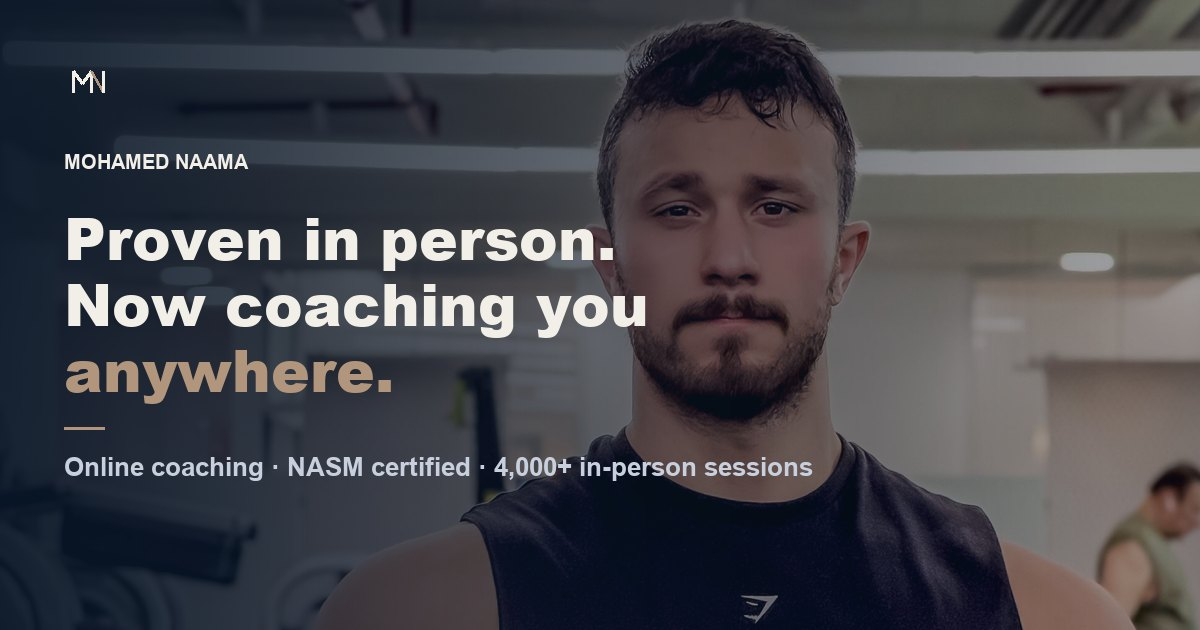
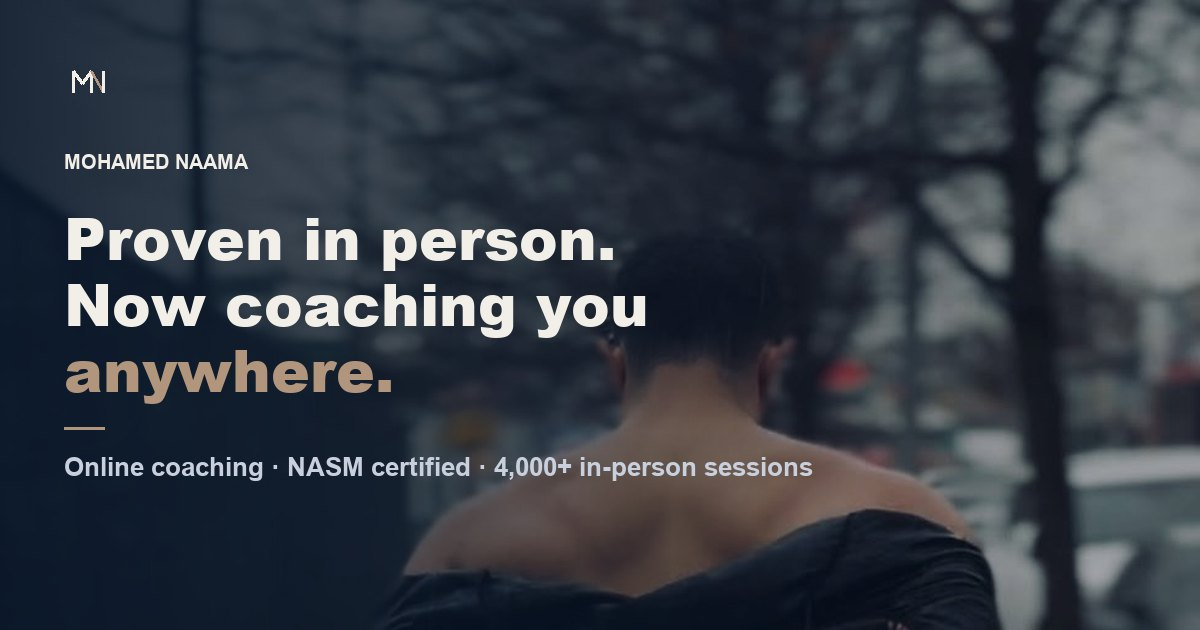
Switch the hero to the rain photograph
Two crops from 17.jpeg: 16:9 at 976x549 from lg up, 4:5 at 976x1220 below,
served through the same <picture> so only one file downloads. Both keep the
original's native 976px width — the source is low resolution and upscaling
the file would add weight without detail.

The screen upscale that remains is recorded in public/images/README.md:
1.17x at 375/DPR2, 1.76x at 375/DPR3, 1.48x at 1440/DPR1, 1.97x at 1920/DPR1.
It holds because the frame is dark and rain-blurred, so softness reads as
atmosphere, but a higher-resolution original would remove the compromise.

The photograph is much darker than the one it replaces, so the navy veil is
lighter: base 25%/15% instead of 45%/30%, and the horizontal gradient now
runs to transparent. Contrast was re-derived by compositing the overlay stack
over the actual pixels rather than eyeballed — behind the headline the worst
single pixel is 4.76:1 at 375px and 7.56:1 at 1440px, medians 11.4:1 and
11.5:1. Lede is 9.0:1 and 8.9:1 at worst.

object-position moved to 50% 34% for the new framing. The social card is
regenerated from the same photograph.

diff --git a/src/content/media.ts b/src/content/media.ts
@@ -6,8 +6,8 @@
  * what the new picture actually shows. See `public/images/README.md`.
  *
  * These are Mohamed's own photographs, supplied by the client. They were
- * cropped to the aspect ratios below, resized, and saved without EXIF (so no
- * camera or GPS metadata ships with them).
+ * cropped to the aspect ratios below, resized down where needed, and saved
+ * without EXIF (so no camera or GPS metadata ships with them).
  */
 
 export type SiteImage = {
@@ -20,41 +20,32 @@ export type SiteImage = {
 
 export const media = {
   /**
-   * Hero background, art-directed.
+   * Hero background, art-directed: the tall crop below `lg`, the wide crop
+   * from `lg` up, both from the same original and served through one
+   * `<picture>` so only one file downloads.
    *
-   * The landscape crop is only usable from `lg` up. Below that the hero is a
-   * tall container, and `object-cover` on a 3:2 frame renders it about 1072px
-   * wide inside a 375px viewport — so the browser was upscaling a 750px file
-   * nearly 3x. The 4:5 crop exists so phones get a frame shaped like the space
-   * it has to fill. Hero renders both through one `<picture>`, so only one
-   * file is ever downloaded.
+   * Both are capped at the original's 976px width — the source is a
+   * low-resolution frame and upscaling the file would only add weight, not
+   * detail. The screen upscale that remains is recorded in the README.
    */
-  heroLandscape: {
-    src: "/images/coach-mohamed-hero.jpg",
-    width: 2400,
-    height: 1600,
-    alt: "Mohamed Naama on the gym floor where he coaches",
+  heroWide: {
+    src: "/images/coach-mohamed-hero-wide.jpg",
+    width: 976,
+    height: 549,
+    alt: "Mohamed Naama training outdoors in the rain, seen from behind",
   },
-  heroPortrait: {
-    src: "/images/coach-mohamed-hero-portrait.jpg",
-    width: 1200,
-    height: 1500,
-    alt: "Mohamed Naama on the gym floor where he coaches",
-  },
-
-  /** Landscape training shot beside the coach's story on the homepage. */
-  coachTraining: {
-    src: "/images/coach-mohamed-training.jpg",
-    width: 1600,
-    height: 1143,
-    alt: "Mohamed Naama mid-set on a seated dumbbell curl",
+  heroTall: {
+    src: "/images/coach-mohamed-hero-tall.jpg",
+    width: 976,
+    height: 1220,
+    alt: "Mohamed Naama training outdoors in the rain, seen from behind",
   },
 
-  /** Used on /about so the two pages do not repeat the same photograph. */
-  coachPortrait: {
-    src: "/images/coach-mohamed-portrait.jpg",
+  /** Beside the coach's story on the homepage. */
+  coachRack: {
+    src: "/images/coach-mohamed-rack.jpg",
     width: 1600,
     height: 1143,
-    alt: "Mohamed Naama resting between sets, looking off camera",
+    alt: "Mohamed Naama in profile beside a loaded rack in the gym",
   },
 } as const satisfies Record<string, SiteImage>;

diff --git a/src/components/sections/hero.tsx b/src/components/sections/hero.tsx
@@ -31,16 +31,16 @@ const DESKTOP_SIZES = "100vw";
  *   coerced back to 75. Asking for it only made the intent misleading.
  */
 const shared = {
-  alt: media.heroLandscape.alt,
+  alt: media.heroWide.alt,
 };
 
 const {
   props: { srcSet: desktopSrcSet },
 } = getImageProps({
   ...shared,
-  src: media.heroLandscape.src,
-  width: media.heroLandscape.width,
-  height: media.heroLandscape.height,
+  src: media.heroWide.src,
+  width: media.heroWide.width,
+  height: media.heroWide.height,
   sizes: DESKTOP_SIZES,
 });
 
@@ -48,9 +48,9 @@ const {
   props: { srcSet: mobileSrcSet, ...imgProps },
 } = getImageProps({
   ...shared,
-  src: media.heroPortrait.src,
-  width: media.heroPortrait.width,
-  height: media.heroPortrait.height,
+  src: media.heroTall.src,
+  width: media.heroTall.width,
+  height: media.heroTall.height,
   sizes: MOBILE_SIZES,
 });
 
@@ -80,11 +80,11 @@ export function Hero() {
         <source srcSet={mobileSrcSet} sizes={MOBILE_SIZES} />
         <img
           {...imgProps}
-          alt={media.heroLandscape.alt}
+          alt={media.heroWide.alt}
           loading="eager"
           fetchPriority="high"
           decoding="async"
-          className="absolute inset-0 -z-10 h-full w-full object-cover object-[50%_30%]"
+          className="absolute inset-0 -z-10 h-full w-full object-cover object-[50%_34%]"
         />
       </picture>
 
@@ -94,11 +94,12 @@ export function Hero() {
         the 4.5:1 AA threshold for body copy.
       */}
       <div aria-hidden className="pointer-events-none absolute inset-0 -z-10">
-        {/* Heavier base veil below lg, where the text crosses the brightest
-            part of the frame instead of sitting beside it. */}
-        <div className="absolute inset-0 bg-navy-900/45 lg:bg-navy-900/30" />
-        <div className="absolute inset-0 bg-linear-to-r from-navy-900/85 via-navy-900/55 to-navy-900/10" />
-        <div className="absolute inset-x-0 bottom-0 h-full bg-linear-to-t from-navy-900 via-navy-900/55 to-transparent lg:h-2/3" />
+        {/* Lighter than the previous photograph needed: this frame is
+            already dark and desaturated, so the old veil flattened it to
+            near-black. Measured after re-tuning rather than guessed. */}
+        <div className="absolute inset-0 bg-navy-900/25 lg:bg-navy-900/15" />
+        <div className="absolute inset-0 bg-linear-to-r from-navy-900/80 via-navy-900/40 to-transparent" />
+        <div className="absolute inset-x-0 bottom-0 h-3/4 bg-linear-to-t from-navy-900 via-navy-900/45 to-transparent lg:h-2/3" />
         <div
           className="absolute inset-0 opacity-[0.04]"
           style={{

diff --git a/src/lib/jsonld.ts b/src/lib/jsonld.ts
@@ -25,7 +25,7 @@ export function homepageJsonLd() {
     name: site.name,
     jobTitle: site.role,
     url: site.url,
-    image: `${site.url}${media.heroLandscape.src}`,
+    image: `${site.url}${media.heroWide.src}`,
     description: site.description,
     /* Both are client-confirmed. */
     hasCredential: credentials.map((credential) => ({

diff --git a/public/images/README.md b/public/images/README.md
@@ -7,23 +7,30 @@ stock imagery remains on the site.
 
 | File | Source frame | Crop | Output | Used by |
 | --- | --- | --- | --- | --- |
-| `coach-mohamed-hero.jpg` | `1.jpeg` | 3:2, face right of centre | 2400×1600 | Hero background, `lg` and up |
-| `coach-mohamed-hero-portrait.jpg` | `1.jpeg` | 4:5, subject centred | 1200×1500 | Hero background below `lg` |
-| `coach-mohamed-training.jpg` | `11.jpeg` | 7:5 | 1600×1143 | Meet Coach Mohamed (homepage) |
-| `coach-mohamed-portrait.jpg` | `9.jpeg` | 7:5 | 1600×1143 | /about |
+| `coach-mohamed-hero-wide.jpg` | `17.jpeg` | 16:9 | 976×549 | Hero background, `lg` and up |
+| `coach-mohamed-hero-tall.jpg` | `17.jpeg` | 4:5 | 976×1220 | Hero background below `lg` |
+| `coach-mohamed-rack.jpg` | `7.jpeg` | 7:5 | 1600×1143 | Meet Coach Mohamed (homepage) |
 
-The raw originals are **not** kept in the repository — they are large phone
-captures and the client holds them. Each file above was cropped, resized with
-Lanczos, re-encoded as progressive JPEG, and written from pixel data only, so
-**no EXIF travels with them** (no camera model, no timestamp, no GPS).
+/about is text-only and uses no photograph.
 
-Verify at any time:
+### A note on the hero resolution
 
-```bash
-python -c "from PIL import Image; print(Image.open('public/images/coach-mohamed-hero.jpg').getexif())"
-```
+`17.jpeg` is only 976×2048 — a low-resolution frame. Both hero crops keep that
+native 976px width; the file is never upscaled, because that would add weight
+without adding detail. The browser still has to stretch it on screen:
 
-An empty result means the metadata is gone.
+| Viewport | Rendered | Upscale |
+| --- | --- | --- |
+| 375px, DPR 2 | 572×715 | 1.17× |
+| 375px, DPR 3 | 572×715 | 1.76× |
+| 1440px, DPR 1 | 1440×810 | 1.48× |
+| 1440px, DPR 2 | 1440×810 | 2.95× |
+| 1920px, DPR 1 | 1920×1080 | 1.97× |
+
+It holds up because the photograph is dark, soft-focus and rain-blurred, so
+the softness reads as atmosphere. **A higher-resolution original would remove
+the compromise entirely** — if one exists, re-crop from it and the numbers
+above all drop to 1.0.
 
 ## Replacing a photo
 
@@ -39,14 +46,13 @@ No component references an image path directly.
 
 Aspect ratios the layouts expect:
 
-- **Hero, wide** — 3:2, face right of centre with open space on the left for
-  the headline. Used from `lg` up.
-- **Hero, portrait** — 4:5, subject centred. Phones render the hero in a tall
+- **Hero, wide** — 16:9, subject centred with room on the left for the
+  headline. Used from `lg` up.
+- **Hero, tall** — 4:5, subject centred. Phones render the hero in a tall
   container, and cropping a wide frame to fill it forces the browser to
-  upscale heavily; a portrait source avoids that. Both are served from one
+  upscale heavily; a tall source avoids that. Both are served from one
   `<picture>`, so only one file downloads.
-- **Meet the coach / about** — 7:5 landscape, one distinct frame each so the
-  two pages do not repeat a photograph.
+- **Meet the coach** — 7:5 landscape.
 
 Strip metadata when you export. Avoid third-party logos and brand marks where
 you can; they need separate clearance.
